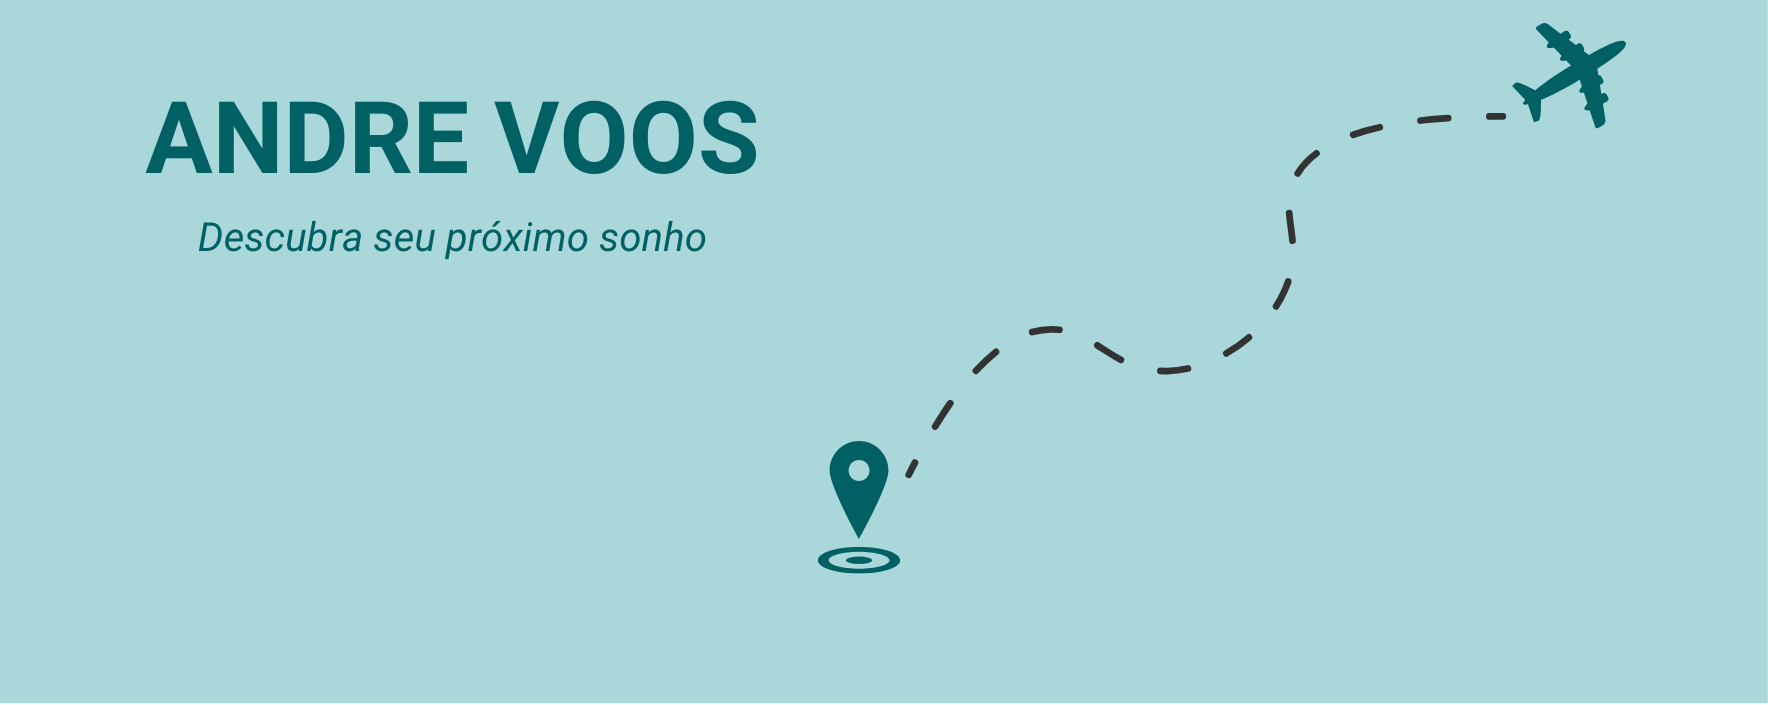
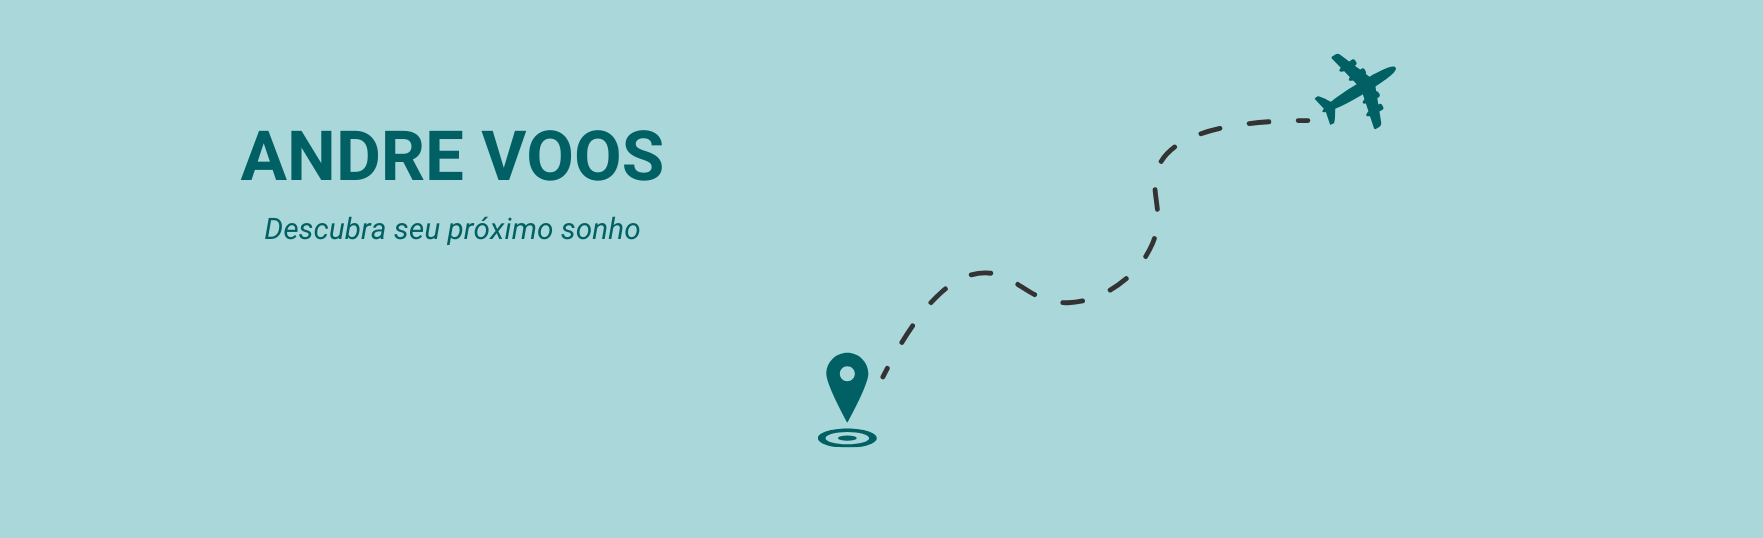
feat: responsividade com componente container

diff --git a/src/app/shared/header/header.component.html b/src/app/shared/header/header.component.html
@@ -1,18 +1,25 @@
 <header class="header-container">
   <mat-toolbar color="primary">
-    <img src="assets/images/logo.png" alt="App logo" class="logo">
-    <h1>ANDRE VOOS</h1>
-    <span class="spacer"></span>
+    <ng-container *ngIf="!isMobile(); else mobileMenu">
+      <img src="assets/images/logo.png" alt="App logo" class="logo">
+      <h1>ANDRE VOOS</h1>
+      <span class="spacer"></span>
 
-    <mat-slide-toggle (change)="toggleDarkTheme()">
-      <mat-icon *ngIf="isDarkTheme">dark_mode</mat-icon>
-      <mat-icon *ngIf="!isDarkTheme" class="light-mode-icon">light_mode</mat-icon>
-    </mat-slide-toggle>
+      <mat-slide-toggle (change)="toggleDarkTheme()">
+        <mat-icon *ngIf="isDarkTheme">dark_mode</mat-icon>
+        <mat-icon *ngIf="!isDarkTheme" class="light-mode-icon">light_mode</mat-icon>
+      </mat-slide-toggle>
 
-    <button mat-button>COMPRE PASSAGENS</button>
-    <button mat-button>CONSULTE VOOS</button>
-    <button mat-raised-button color="accent">CADASTRE-SE</button>
-    <button mat-stroked-button>LOGIN</button>
+      <button mat-button>COMPRE PASSAGENS</button>
+      <button mat-button>CONSULTE VOOS</button>
+      <button mat-raised-button color="accent">CADASTRE-SE</button>
+      <button mat-stroked-button>LOGIN</button>
+    </ng-container>
 
+    <ng-template #mobileMenu>
+      <button mat-icon-button>
+        <mat-icon>menu</mat-icon>
+      </button>
+    </ng-template>
   </mat-toolbar>
 </header>

diff --git a/src/app/shared/banner/banner.component.scss b/src/app/shared/banner/banner.component.scss
@@ -11,8 +11,6 @@
 
   .banner {
     width: 100%;
-    height: auto;
-    display: block;
   }
 
   &::after {
@@ -27,7 +25,7 @@
     background: linear-gradient(
       to bottom,
       rgba(0, 0, 0, 0) 0%,
-      $white-color 100%
+      $white-color 90%
     );
   }
 
@@ -35,7 +33,30 @@
     background: linear-gradient(
       to bottom,
       rgba(0, 0, 0, 0) 0%,
-      $grey-color 100%
+      $grey-color 90%
     );
+  }
+
+  .mobile-banner {
+    display: flex;
+    flex-direction: column;
+    justify-content: center;
+    align-items: center;
+    width: 100%;
+    margin-top: 2rem;
+    background-color: $blue-color;
+    color: $white-color;
+
+    h1 {
+      font-size: 2rem;
+      font-weight: bold;
+      margin: 0;
+    }
+
+    p {
+      font-size: 1rem;
+      font-style: italic;
+      margin: 0.5rem 0 0;
+    }
   }
 }

diff --git a/src/app/app.module.ts b/src/app/app.module.ts
@@ -13,6 +13,7 @@ import { HeaderComponent } from './shared/header/header.component';
 import { FooterComponent } from './shared/footer/footer.component';
 import { CardComponent } from './shared/card/card.component';
 import { BannerComponent } from './shared/banner/banner.component';
+import { ContainerComponent } from './shared/container/container.component';
 
 
 @NgModule({
@@ -21,7 +22,8 @@ import { BannerComponent } from './shared/banner/banner.component';
     HeaderComponent,
     FooterComponent,
     CardComponent,
-    BannerComponent
+    BannerComponent,
+    ContainerComponent
   ],
   imports: [
     BrowserModule,

diff --git a/src/app/shared/container/container.component.spec.ts b/src/app/shared/container/container.component.spec.ts
@@ -1,0 +1,21 @@
+import { ComponentFixture, TestBed } from '@angular/core/testing';
+
+import { ContainerComponent } from './container.component';
+
+describe('ContainerComponent', () => {
+  let component: ContainerComponent;
+  let fixture: ComponentFixture<ContainerComponent>;
+
+  beforeEach(() => {
+    TestBed.configureTestingModule({
+      declarations: [ContainerComponent]
+    });
+    fixture = TestBed.createComponent(ContainerComponent);
+    component = fixture.componentInstance;
+    fixture.detectChanges();
+  });
+
+  it('should create', () => {
+    expect(component).toBeTruthy();
+  });
+});

diff --git a/src/app/shared/container/container.component.ts b/src/app/shared/container/container.component.ts
@@ -1,0 +1,24 @@
+import { Component, HostListener, OnInit } from '@angular/core';
+
+@Component({
+  selector: 'app-container',
+  templateUrl: './container.component.html',
+  styleUrls: ['./container.component.scss']
+})
+export class ContainerComponent implements OnInit {
+  isMobile: boolean = false;
+
+  @HostListener('window:resize', ['$event'])
+  onResize() {
+    this.checkDevice();
+  }
+
+  ngOnInit() {
+    this.checkDevice();
+  }
+
+  private checkDevice() {
+    this.isMobile = window.innerWidth < 1024;
+    document.body.classList.toggle('mobile', this.isMobile);
+  }
+}

diff --git a/src/app/app.component.ts b/src/app/app.component.ts
@@ -1,4 +1,4 @@
-import { Component } from '@angular/core';
+import { Component, OnInit } from '@angular/core';
 
 @Component({
   selector: 'app-root',
@@ -7,4 +7,11 @@ import { Component } from '@angular/core';
 })
 export class AppComponent {
   title = 'flightsapp-front';
+
+  ngOnInit() {
+    const isMobile = window.innerWidth < 1024;
+    if (isMobile) {
+      document.body.classList.add('mobile');
+    }
+  }
 }

diff --git a/src/styles.scss b/src/styles.scss
@@ -12,6 +12,7 @@ body {
   font-family: Roboto, "Helvetica Neue", sans-serif;
   color: $black-color;
   background-color: $white-color;
+  max-width: 100%;
 }
 
 @include angular-material-theme($light-theme);
@@ -20,4 +21,9 @@ body {
   @include angular-material-theme($dark-theme);
 
   background-color: $grey-color;
+}
+
+.mobile {
+  display: flex;
+  justify-self: center;
 }

diff --git a/src/app/shared/banner/banner.component.html b/src/app/shared/banner/banner.component.html
@@ -4,4 +4,11 @@
     [src]="isDarkMode() ? 'assets/images/banner-dark-mode.png' : 'assets/images/banner-light-mode.png'"
     alt="Banner da aplicação"
   />
+
+  <!--
+  <div *ngIf="isMobile()" class="mobile-banner">
+    <h1>ANDRE VOOS</h1>
+    <p>Descubra seu próximo sonho</p>
+  </div>
+  -->
 </div>

diff --git a/src/app/shared/header/header.component.scss b/src/app/shared/header/header.component.scss
@@ -24,6 +24,7 @@
   .mat-toolbar {
     color: $white-color;
     padding: 0 6rem;
+    justify-content: center;
   }
 
   .mat-mdc-outlined-button:not(:disabled) {
@@ -31,6 +32,10 @@
   }
 
   .light-mode-icon {
+    color: $white-color;
+  }
+
+  .mat-icon-button {
     color: $white-color;
   }
 }

diff --git a/src/app/shared/header/header.component.ts b/src/app/shared/header/header.component.ts
@@ -13,4 +13,7 @@ export class HeaderComponent {
     document.body.classList.toggle('dark-theme');
   }
 
+  isMobile(): boolean {
+    return document.body.classList.contains('mobile');
+  }
 }

diff --git a/src/app/app.component.html b/src/app/app.component.html
@@ -1,2 +1,4 @@
-<app-header></app-header>
-<app-banner></app-banner>
+<app-container>
+  <app-header></app-header>
+  <app-banner></app-banner>
+</app-container>

diff --git a/src/app/shared/container/container.component.scss b/src/app/shared/container/container.component.scss
@@ -1,0 +1,5 @@
+.app-container {
+  width: 100%;
+  margin: 0 auto;
+  max-width: 100%;
+}
